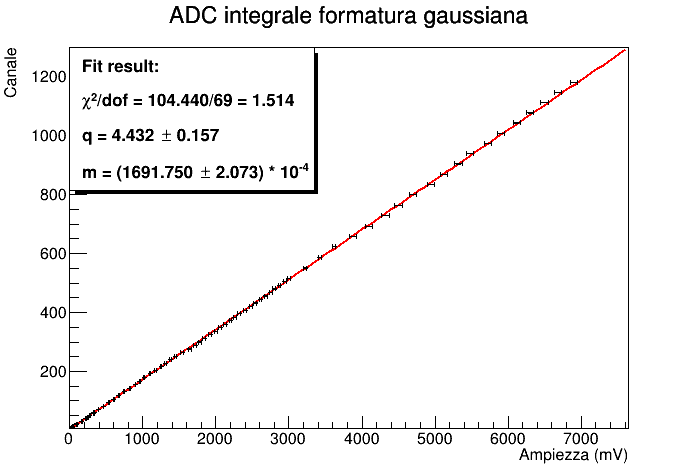
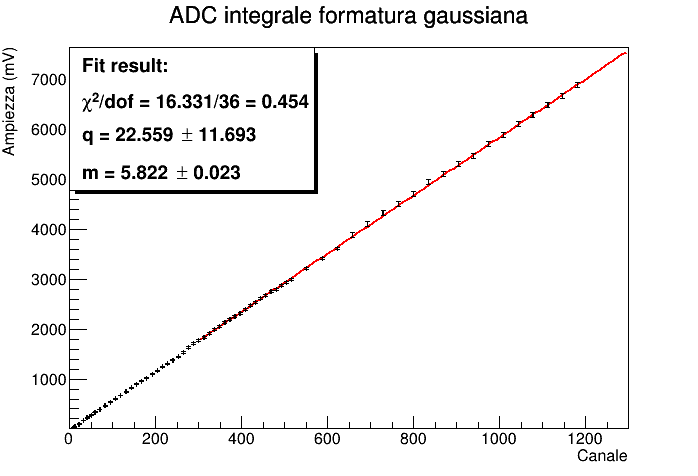
ADC integale

diff --git a/ADC_integrale.py b/ADC_integrale.py
@@ -1,0 +1,96 @@
+import ROOT
+import MoraPyRoot as mpr
+import matplotlib.pyplot as plt
+
+file_path = "/mnt/c/Users/User/Desktop/info/Compton/ADC/"
+# formatura = "preamplificata"
+# formatura = "gaussiana-shaping"
+
+# Funzione per leggere i dati da un file
+def read_data(fileName):
+    x_values, x_errors = [], []
+    with open(fileName, 'r') as file:
+        for line in file:
+            parts = line.strip().split()
+            if len(parts) == 2:
+                x, dx = map(float, parts)
+                x_values.append(x)
+                x_errors.append(dx)
+    return x_values, x_errors
+
+def fill_TGraphError(formatura):
+    amp_values, amp_errors = read_data(file_path + "dati/formatura_" + formatura + "_amp(mV).txt")
+    channel_values, channel_errors = read_data(file_path + "dati/formatura_" + formatura + "_canale.txt")
+
+    # Convert data in array for ROOT 
+    import array
+    amp_values_array = array.array('d', amp_values)
+    channel_values_array = array.array('d', channel_values)
+    amp_errors_array = array.array('d', amp_errors)
+    channel_errors_array = array.array('d', channel_errors)
+
+    graph_amp = ROOT.TGraphErrors(len(amp_values), channel_values_array, amp_values_array, channel_errors_array, amp_errors_array)
+
+    return graph_amp
+
+def extract_points_from_tgraph(graph):    
+    points = []
+    n_points = graph.GetN()  # Numero di punti nel TGraphErrors
+    
+    for i in range(n_points):
+        x = graph.GetPointX(i)
+        y = graph.GetPointY(i)
+        err_x = graph.GetErrorX(i)
+        err_y = graph.GetErrorY(i)
+        points.append((float(x), float(y), float(err_x), float(err_y)))
+    
+    return points
+
+def residuals(graph, fit_function, destinationPNG):
+    points = extract_points_from_tgraph(graph)
+    
+    res = []
+    d = []
+
+    for x, y, x_err, y_err in points: 
+        res.append((y - fit_function.Eval(x)) / y_err)
+        d.append(x)
+            
+    plt.figure(figsize=(10, 6))
+    plt.errorbar(d, res, fmt='o', color='black')
+
+    plt.axhline(0, color='red', linestyle='--', linewidth=1.5)
+
+    plt.xlabel(graph.GetXaxis().GetTitle())
+    plt.ylabel("Residuals")
+    plt.ylim(-2, 2)
+    plt.grid(True)
+    plt.savefig(destinationPNG)
+
+coo1 = [0.1, 0.6, 0.45, 0.9]  
+str1 = ["q", "m"] 
+
+# Formatura gaussiana
+formatura = "gaussiana"
+T_gaus = fill_TGraphError(formatura)
+f_gaus = ROOT.TF1("ADC", "pol1(0)", 0, 2000)
+f_gaus.SetParameters(0, 0)
+f_gaus.SetParameters(1, 0.2)
+
+extreme = [0, 300, 0, 2000]
+mpr.stampa_graph_fit(T_gaus, f_gaus, file_path +  "ADC_integrale_formatura_" + formatura + ".png", "ADC integrale formatura " + formatura, "Canale", "Ampiezza (mV)", "AP", 300, 2000, 2, coo1, str1)
+residuals(T_gaus, f_gaus, file_path + "formatura_" + formatura + "_residual.png")
+mpr.stampa_graph_fit_range(T_gaus, f_gaus, extreme, file_path +  "ADC_integrale_formatura_" + formatura + "_zoom.png", "ADC integrale formatura " + formatura, "Canale", "Ampiezza (mV)", "AP", 5, 300, 2, coo1, str1)
+
+# Formatura preamplificataa
+formatura = "preamplificata"
+T_preamp = fill_TGraphError(formatura)
+f_preamp = ROOT.TF1("ADC", "pol1(0)", 0, 2000)
+f_preamp.SetParameters(0, 0)
+f_preamp.SetParameters(1, 0.2)
+
+extreme = [1600, 1900, 8000, 10000]
+mpr.stampa_graph_fit(T_preamp, f_preamp, file_path +  "ADC_integrale_formatura_" + formatura + ".png", "ADC integrale formatura " + formatura, "Canale", "Ampiezza (mV)", "AP", 950, 1600, 2, coo1, str1)
+residuals(T_preamp, f_preamp, file_path + "formatura_" + formatura + "_residual.png")
+mpr.stampa_graph_fit_range(T_preamp, f_preamp, extreme, file_path +  "ADC_integrale_formatura_" + formatura + "_zoom.png", "ADC integrale formatura " + formatura, "Canale", "Ampiezza (mV)", "AP", 1600, 1900, 2, coo1, str1)
+

diff --git a/MoraPyRoot.py b/MoraPyRoot.py
@@ -90,7 +90,8 @@ def stampa_graph_fit(point, function, destination_png, graph_name, x_axis_name, 
         canvas.Print(destination_png, "png")
 
 # SetRange
-def stampa_graph_fit_range(point, function, min_graph, max_graph, destination_png, graph_name, x_axis_name, y_axis_name, graphic_option, min_val = None, max_val = None, n_parameters = 0, pave_coordinates = None, pave_entries = None):
+# extreme = [x_min, x_max, y_muin, y_max]
+def stampa_graph_fit_range(point, function, extreme_graph, destination_png, graph_name, x_axis_name, y_axis_name, graphic_option, min_val = None, max_val = None, n_parameters = 0, pave_coordinates = None, pave_entries = None):
     canvas = ROOT.TCanvas()
     
     point.Draw(graphic_option)
@@ -123,14 +124,16 @@ def stampa_graph_fit_range(point, function, min_graph, max_graph, destination_pn
 
         text_box.Draw()
 
-        point.GetXaxis().SetRangeUser(min_graph, max_graph) 
+        point.GetXaxis().SetRangeUser(extreme_graph[0], extreme_graph[1])
+        point.GetYaxis().SetRangeUser(extreme_graph[2], extreme_graph[3])
 
         canvas.Print(destination_png, "png")
         del text_box
     
     else:            
-        point.GetXaxis().SetRangeUser(min_graph, max_graph)    
-
+        point.GetXaxis().SetRangeUser(extreme_graph[0], extreme_graph[1])
+        point.GetYaxis().SetRangeUser(extreme_graph[2], extreme_graph[3])
+        
         canvas.Print(destination_png, "png")
 
 #-*-*-*-*-*-*-*-*-*-*-*-*-*-*-*-*-*-*-*-*-*-*-*-*-*-*-*-*-*-*-*-*-*-*-*-*-*-*-*-*-*-*-*-*-*-*

diff --git a/ADC_differenziale.py b/ADC_differenziale.py
@@ -19,26 +19,8 @@ def read_data(fileName):
                 x_errors.append(dx)
     return x_values, x_errors
 
-amp_values, amp_errors = read_data(file_path + "dati/formatura_" + formatura + "_amp(mV).txt")
 channel_values, channel_errors = read_data(file_path + "dati/formatura_" + formatura + "_canale.txt")
 counts_values, counts_errors = read_data(file_path + "dati/formatura_" + formatura + "_conteggi.txt")
-
-# Convert data in array for ROOT 
-import array
-amp_values_array = array.array('d', amp_values)
-channel_values_array = array.array('d', channel_values)
-amp_errors_array = array.array('d', amp_errors)
-channel_errors_array = array.array('d', channel_errors)
-
-graph_amp = ROOT.TGraphErrors(len(amp_values), amp_values_array, channel_values_array, amp_errors_array, channel_errors_array)
-
-f_true = ROOT.TF1("ADC", "pol1(0)", 0, 2000)
-f_true.SetParameters(0, 0)
-f_true.SetParameters(1, 0.2)
-
-coo1 = [0.1, 0.6, 0.45, 0.9]  
-str1 = ["q", "m"] 
-mpr.stampa_graph_fit(graph_amp, f_true, file_path +  "ADC_integrale_formatura_" + formatura + ".png", "ADC integrale formatura " + formatura, "Ampiezza (mV)", "Canale", "AP", 0, 7500, 2, coo1, str1)
 
 plt.errorbar(channel_values, counts_values, xerr=channel_errors, yerr=counts_errors)
 
